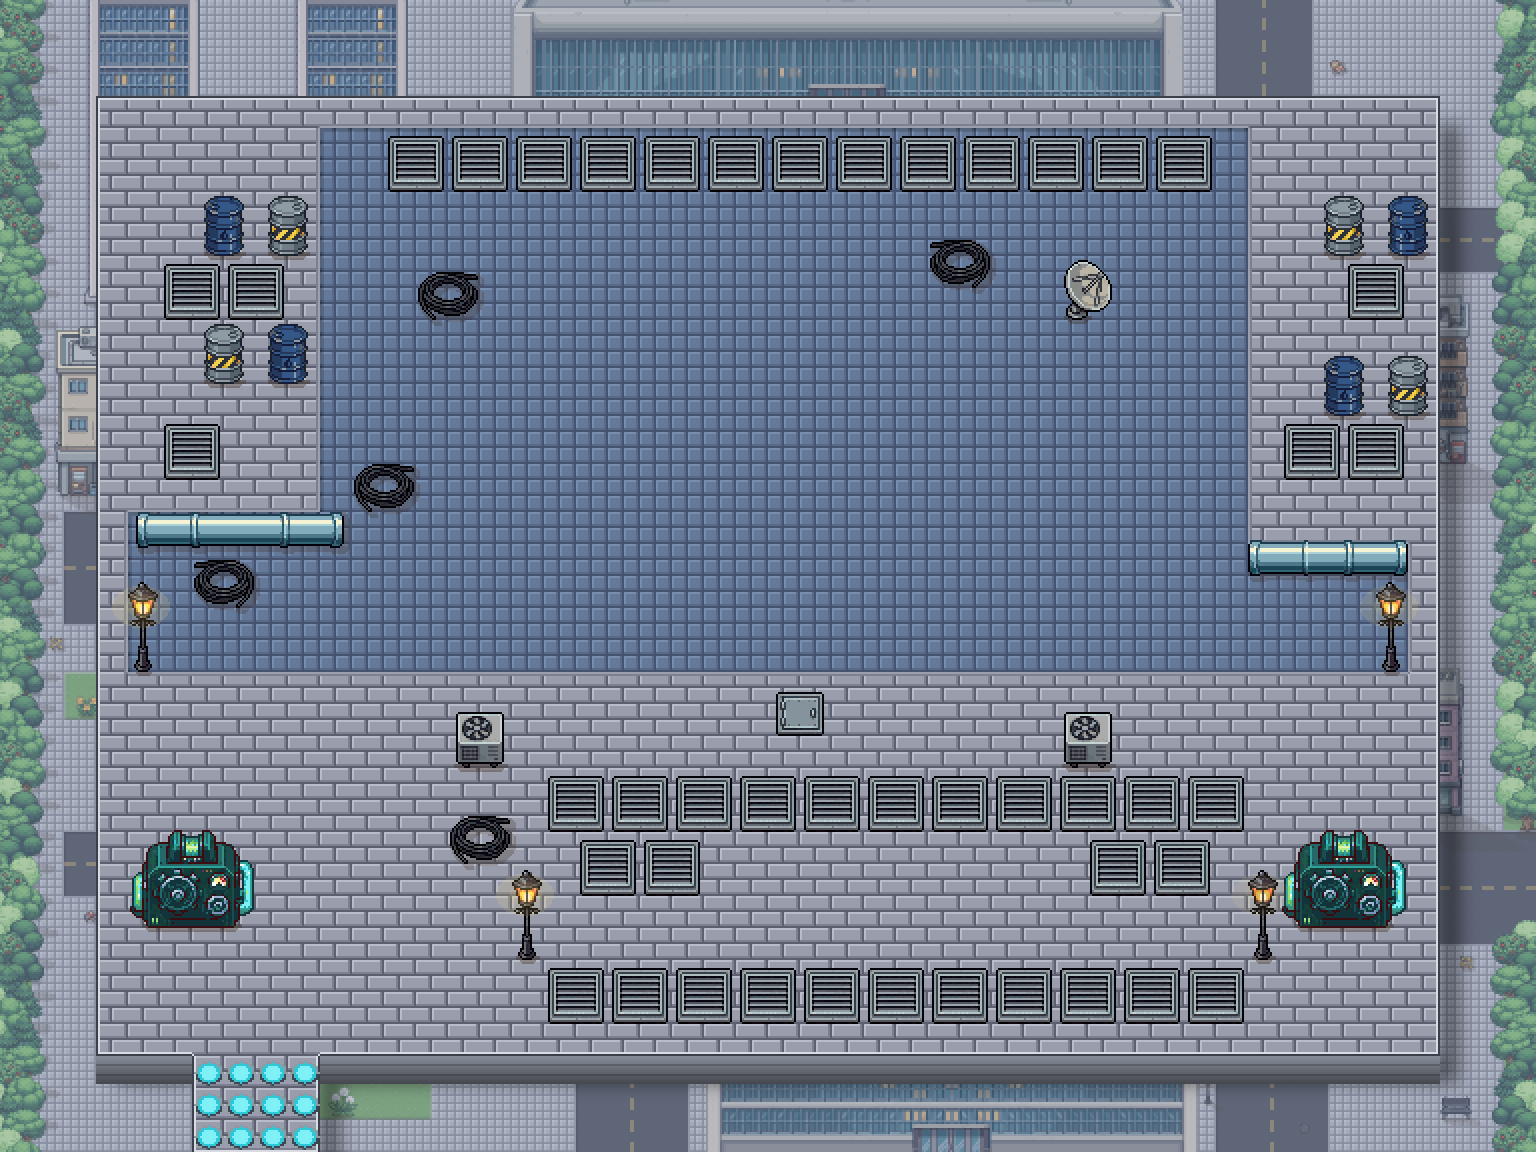
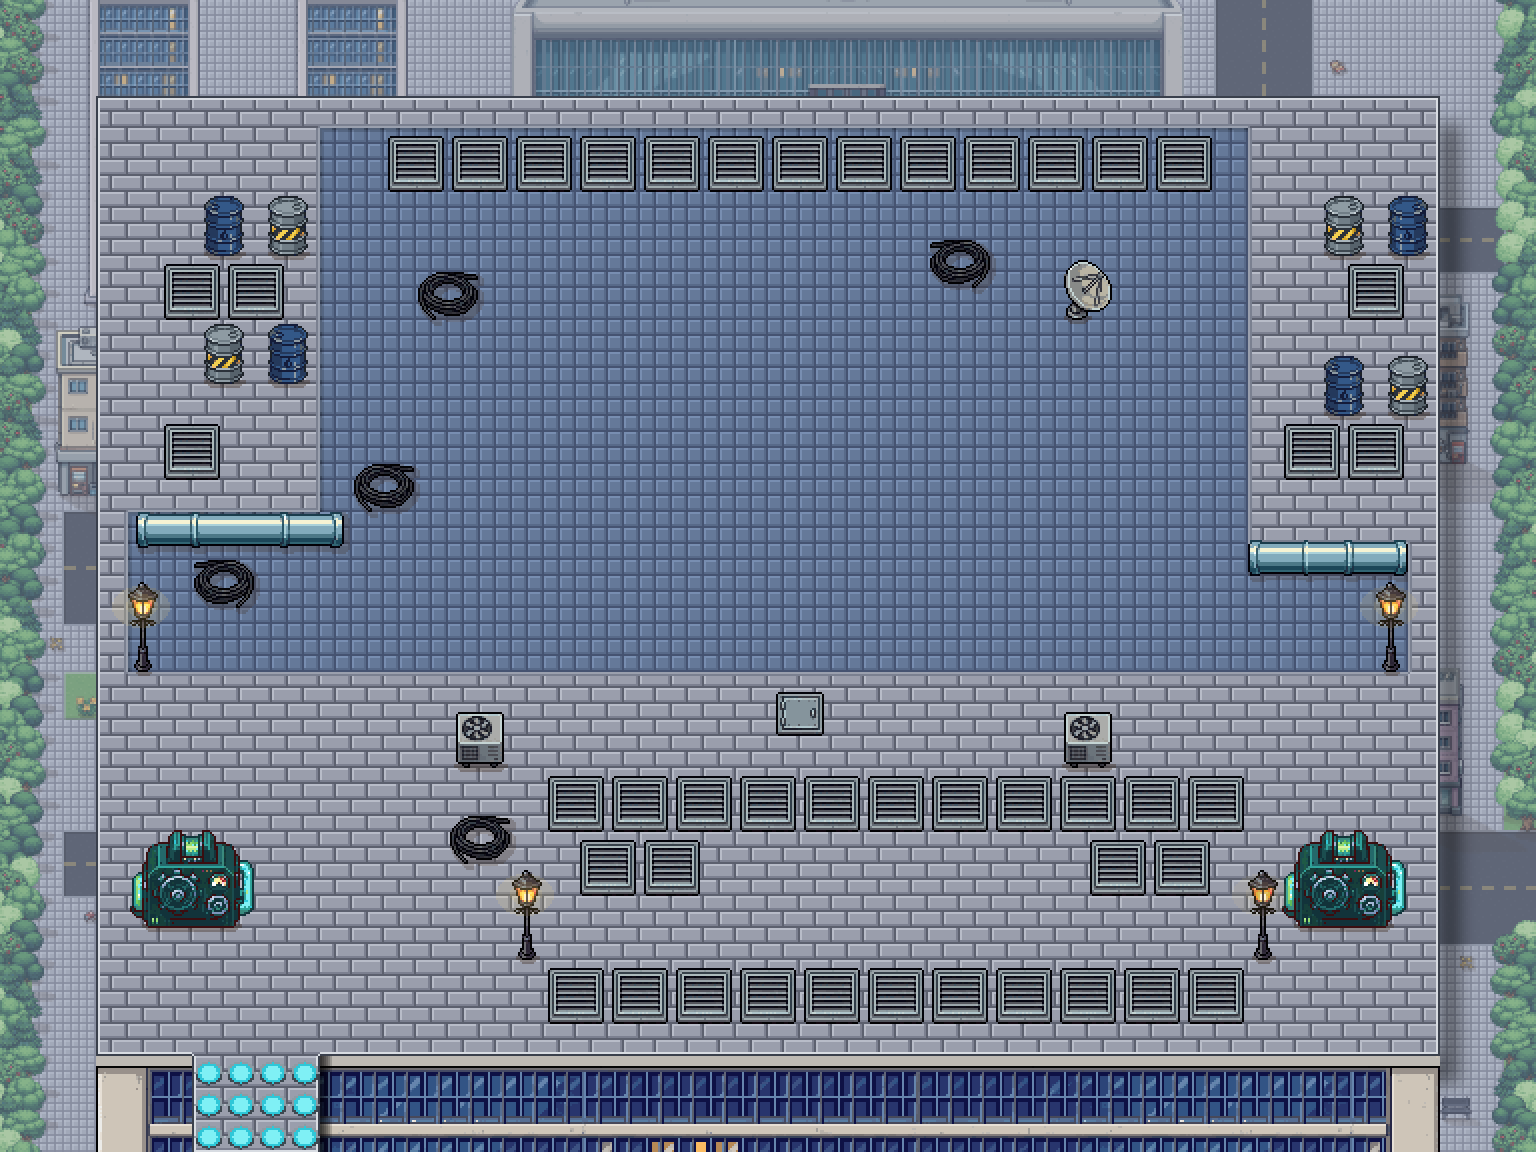
Karte 37: Glasfassade an der Suedfront (Karte-35-Buerogebaeude 1:1, Eckpfeiler, Plattformschatten) (Nutzer)
Claude-Session: https://claude.ai/code/session_01SaoYHKhnro4LFcPJqjaPsq

Changed region(s): [[0.1875, 0.9062, 0.9375, 1.0], [0.0625, 0.9062, 0.125, 1.0]]

diff --git a/tools/karte37_bauen.py b/tools/karte37_bauen.py
@@ -5,7 +5,7 @@
 Das Dach des Hypnos-Hochhauses liegt hoch ueber Shinjuku (Nutzer): Im Ring der aeusseren 3 Kacheln sieht man tief unten
 die Stadt von Karte 35 (Shinjuku Digital Fog) - verkleinert (weit unten), mit Hoehendunst, aus deren eigener Animation
 gerendert (Nebel, Laternen, Teleporter bewegen sich mit). Das Dach wirft einen Schatten nach rechts unten auf die Stadt;
-die Dachkante hat eine Bruestung, im Sueden faellt die Fassade sichtbar ab. Dachflaeche: helle Ziegelwege (Karte 18 'k')
+die Dachkante hat eine Bruestung, im Sueden faellt eine Glasfassade (Karte-35-Buerogebaeude) bis zum Kartenrand ab. Dachflaeche: helle Ziegelwege (Karte 18 'k')
 und die tiefer liegende dunkle Flaeche mit Kante. Der Ring ist nicht begehbar (leere.npy).
 """
 import json, os, sys
@@ -56,6 +56,19 @@ def stadt_unten(frame, W, Hh):
     return np.array(Image.open(pfad).convert('RGB'))
 
 
+FASSADE = os.path.join(ROOT, 'assets', 'objekte', 'karte35', 'gross_buero_mitte_c', '00.png')
+
+
+def fassade_textur(breite):
+    """Fassadenband in Dachbreite aus dem Karte-35-Buerogebaeude: Eckpfeiler (x 5-31 / 447-473) + Glasraster
+    (Periode 16 px, Ausschnitt x 40-423 nahtlos wiederholt), Zeilen 65-112 (Gesims-Unterkante, Glasgeschoss, Deckenband)."""
+    q = np.array(Image.open(FASSADE).convert('RGB'))[65:113]
+    links, rechts, glas = q[:, 5:32], q[:, 447:474], q[:, 40:424]
+    n = breite - links.shape[1] - rechts.shape[1]
+    mitte = np.concatenate([glas] * (n // glas.shape[1] + 1), 1)[:, :n]
+    return np.concatenate([links, mitte, rechts], 1)
+
+
 def bauen(frame=None, speichern=True):
     lay = json.load(open(os.path.join(KARTE, 'layout.json')))
     cols, rows = lay['groesse']
@@ -77,14 +90,32 @@ def bauen(frame=None, speichern=True):
     s = np.array(Image.fromarray((sch * 255).astype(np.uint8)).filter(ImageFilter.GaussianBlur(4))).astype(np.float32) / 255
     s[dach] = 0
     a[:] = np.clip(a * (1 - 0.45 * s[..., None]), 0, 255).astype(np.uint8)
-    # Fassade faellt im Sueden ab (unter der Dachkante, auch unter der Plattform)
+    # Suedfassade (Nutzer): Glasfassade des PixelLab-Buerogebaeudes aus Karte 35 (1:1, nicht skaliert) faellt unter der
+    # Dachkante bis zum Kartenrand ab - Gesims, Glasgeschoss, Deckenband; Eckpfeiler links und rechts. Die Teleporter-
+    # Plattform (Dachhoehe) bleibt davor.
     unten = dach & ~np.vstack([dach[1:], np.zeros((1, Wp), bool)])
-    for d in range(1, 15):
-        f = np.vstack([np.zeros((d, Wp), bool), unten[:-d]]) & ~dach
-        c = np.array(H('#8a919c'), np.float32) * (1 - d * 0.035)
-        a[f] = c.astype(np.uint8)
-        if d in (5, 10):
-            a[f] = (c * 0.8).astype(np.uint8)                          # Geschossfuge
+    xs = np.where(dach.any(0))[0]
+    x0d = xs[0]
+    fas = fassade_textur(xs[-1] - x0d + 1)
+    fas_m = np.zeros((Hp, Wp), bool)
+    for x in range(Wp):
+        ys = np.where(unten[:, x])[0]
+        for y0 in ys:
+            if y0 + 1 >= Hp or dach[y0 + 1, x]:
+                continue
+            fx = x - x0d
+            if not (0 <= fx < fas.shape[1]):
+                continue
+            for d in range(min(fas.shape[0], Hp - y0 - 1)):
+                y = y0 + 1 + d
+                if dach[y, x]:
+                    break
+                a[y, x] = fas[d, fx]
+                fas_m[y, x] = True
+    # Schlagschatten der Teleporter-Plattform auf die Fassade (Licht oben links -> rechts daneben)
+    for dx in range(1, 7):
+        sm = np.hstack([np.zeros((Hp, dx), bool), dach[:, :-dx]]) & fas_m
+        a[sm] = (a[sm] * 0.82).astype(np.uint8)
     # Bruestung: 1 px dunkle Aussenkontur, 2 px helle Abdeckung mit Lichtkante
     dp = np.vstack([dach, dach[-1:]])                                  # Kartenrand ist keine Dachkante (Teleporter-Ausgang offen)
     rand = kontur(dp)
